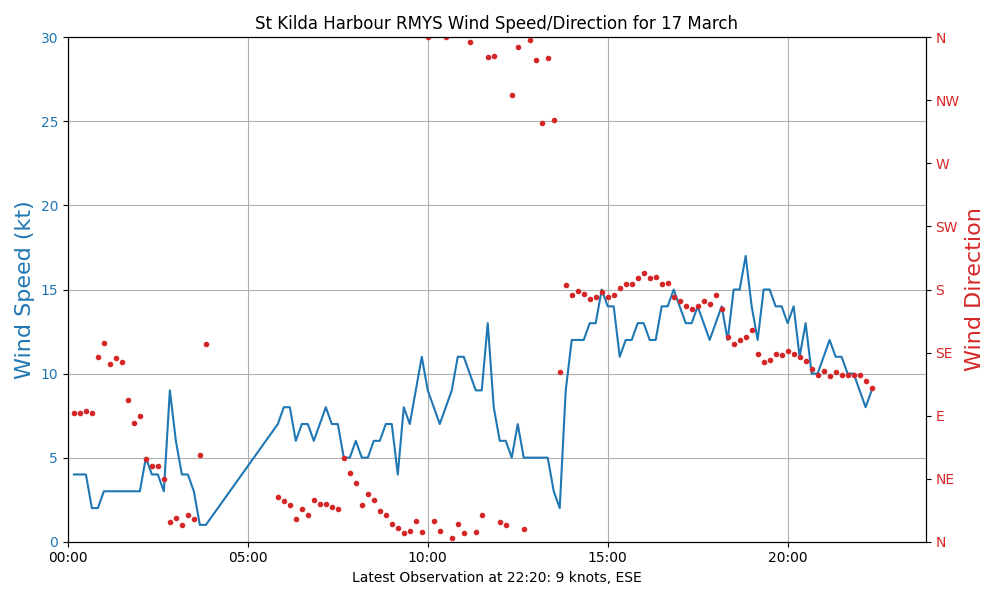
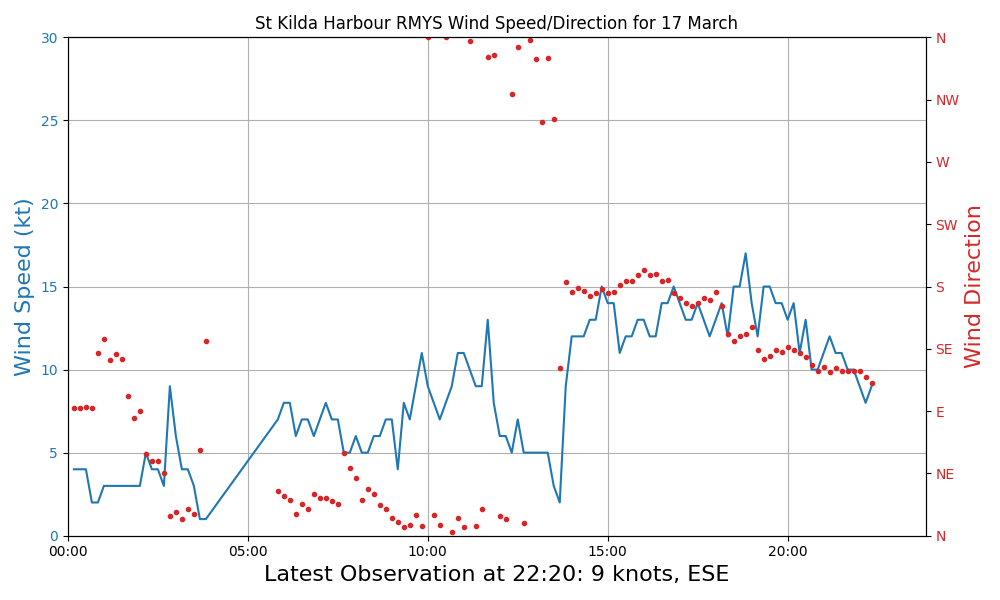
chart update

diff --git a/graph48.py b/graph48.py
@@ -90,7 +90,7 @@ def generate_and_save_plot(data, save_dir):
         color = 'tab:blue'
       
         latest_observation_time = max(df['Time']).strftime("%H:%M")
-        ax1.set_xlabel(f'Latest Observation at {latest_observation_time}: {wind_speeds_kt[-1]} knots, {data["stations"][-1]["wind_speed"]["direction"]}')
+        ax1.set_xlabel(f'Latest Observation at {latest_observation_time}: {wind_speeds_kt[-1]} knots, {data["stations"][-1]["wind_speed"]["direction"]}', fontsize=16)
 
 
         ax1.set_ylabel('Wind Speed (kt)', color=color, fontsize=16)
